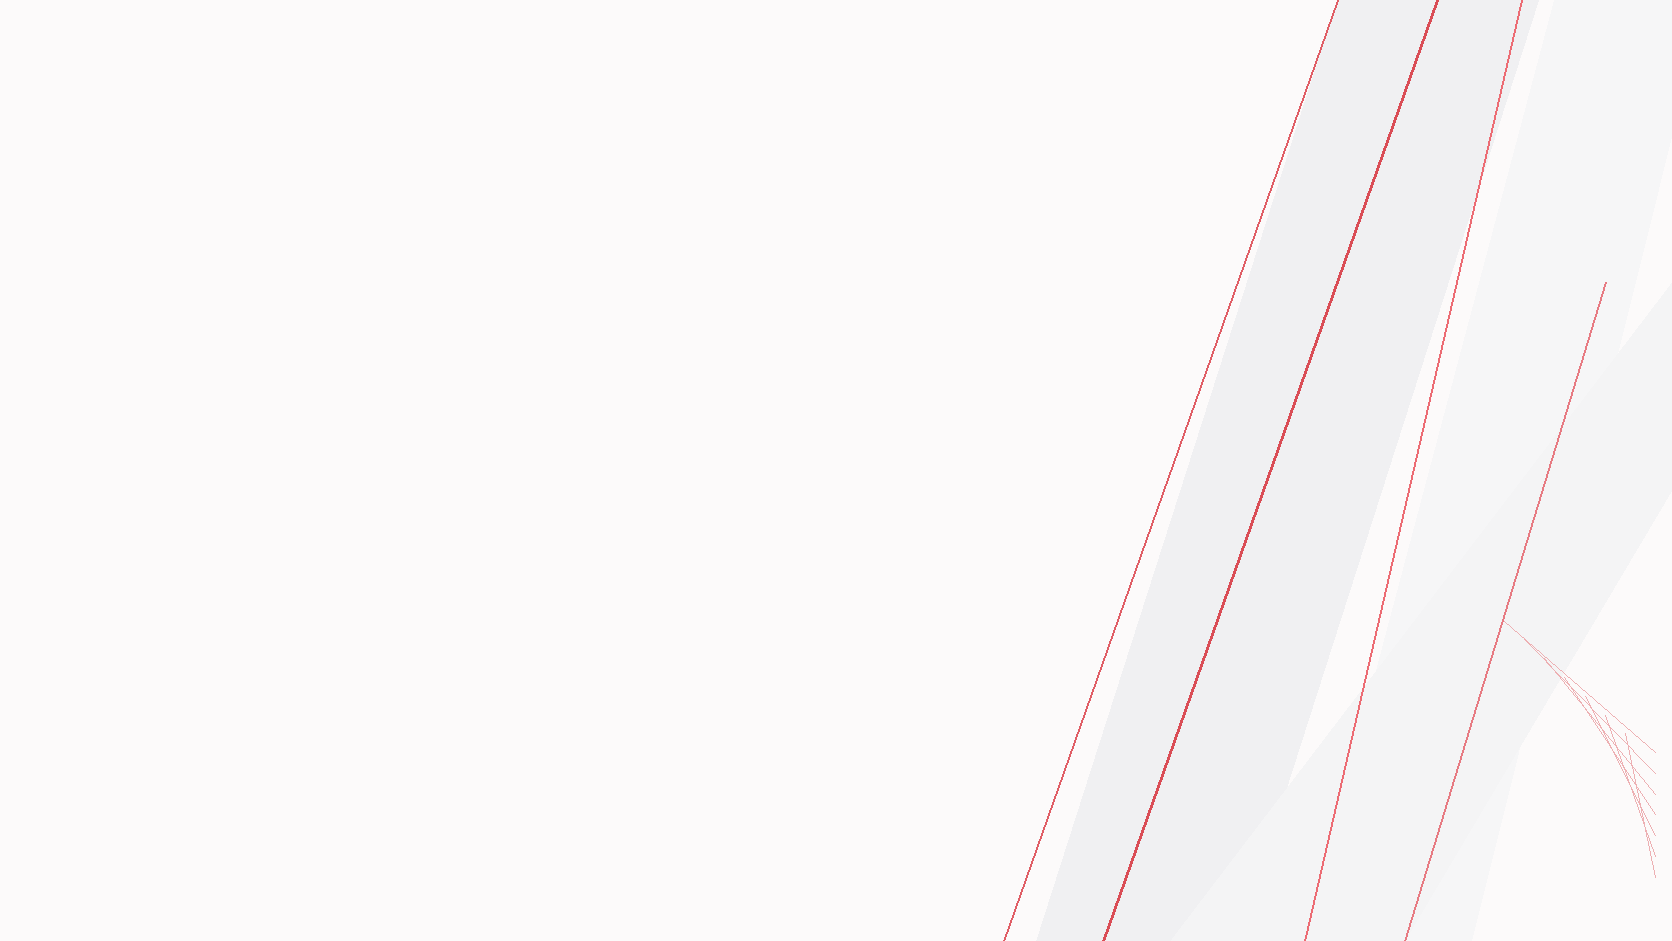
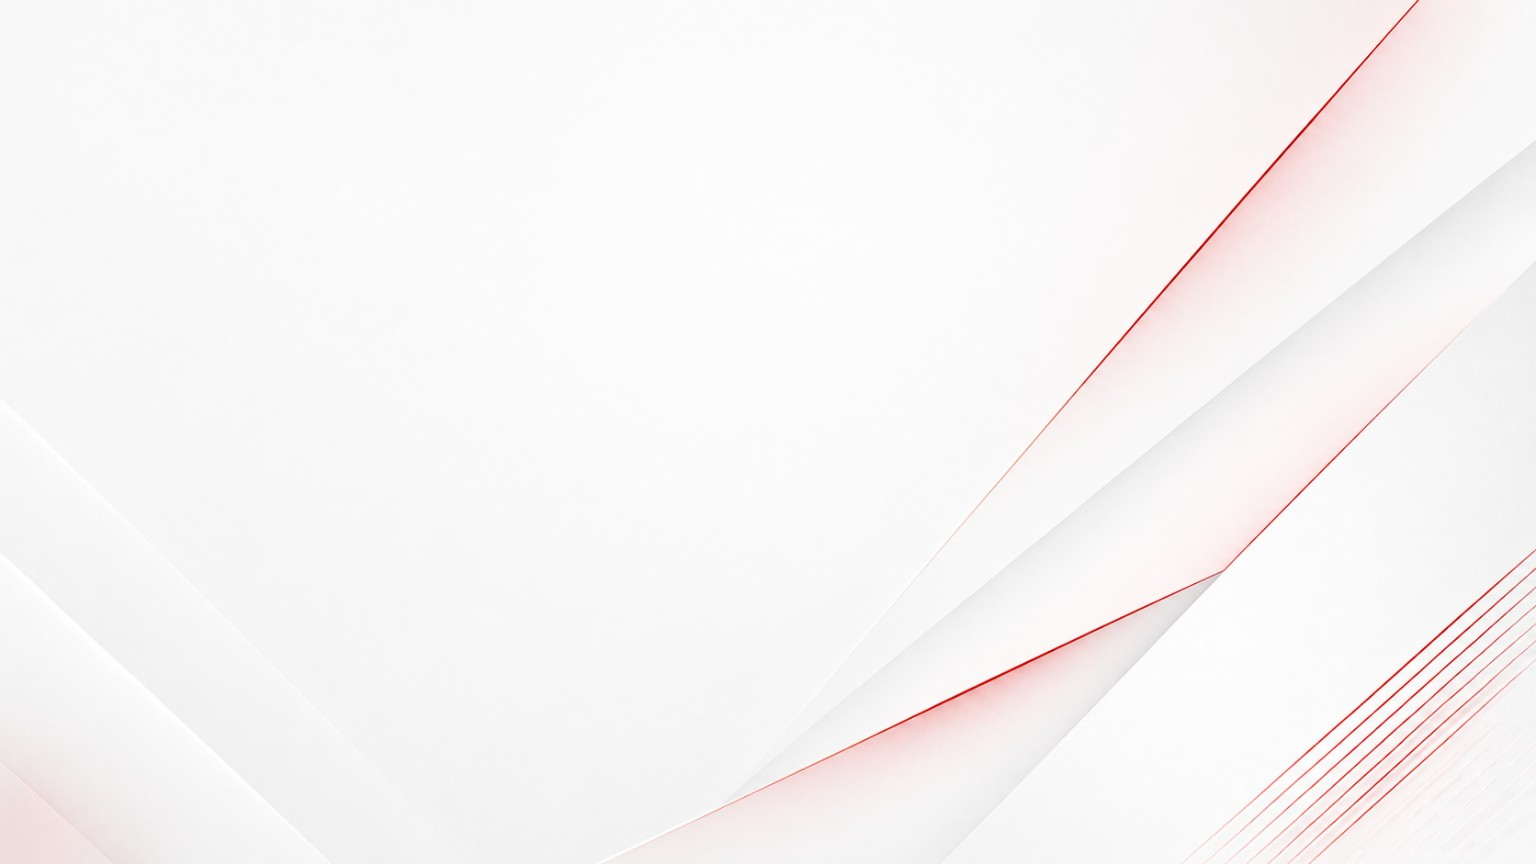
fix(apollo-pptx): 発明アイディア背景を正規画像に差替え＋タイトル/サブの重なり解消
- light_red_background.png を提供された正規背景に差し替え。
- add_invention_zone_slide のタイトル下サブメッセージを add_title_shape の戻り値(sub_y)
  基準で動的配置し、想定独立請求項案パネルも連動。タイトル(Yu Mincho)との重なりを解消。

https://claude.ai/code/session_01VUchd4fwU4ezbyD4d8joCn

diff --git a/capcom_schema/templates/slides_spec.md b/capcom_schema/templates/slides_spec.md
@@ -2900,17 +2900,22 @@ def add_invention_zone_slide(prs, zone, blank, page_num=None):
     s.background.fill.solid(); s.background.fill.fore_color.rgb = RGBColor(0xFF, 0xFF, 0xFF)
     if CV_BG_LIGHT_PATH and os.path.exists(CV_BG_LIGHT_PATH):
         s.shapes.add_picture(CV_BG_LIGHT_PATH, Inches(0), Inches(0), Inches(13.333), Inches(7.5))
-    add_title_shape(s, zone.get("headline", ""), label=str(zone.get("zoneName", "")).upper())
+    sub_y = add_title_shape(s, zone.get("headline", ""), label=str(zone.get("zoneName", "")).upper())
     if zone.get("subtitle"):
-        st = s.shapes.add_textbox(Inches(MARGIN_L), Inches(1.26), Inches(CONTENT_W), Inches(0.3))
+        st = s.shapes.add_textbox(Inches(MARGIN_L), Inches(sub_y + 0.02), Inches(CONTENT_W), Inches(0.32))
         set_text(st.text_frame.paragraphs[0], zone["subtitle"], Pt(12.5), MEDIUM_GRAY)
+        ctop = sub_y + 0.42
+    else:
+        ctop = sub_y + 0.12
+    ctop = max(ctop, 1.56)
+    cph = 3.72 - ctop
     # 想定独立請求項案（白パネル＋赤枠・主役）
-    cp = s.shapes.add_shape(MSO_SHAPE.RECTANGLE, Inches(0.9), Inches(1.62), Inches(11.73), Inches(2.02))
+    cp = s.shapes.add_shape(MSO_SHAPE.RECTANGLE, Inches(0.9), Inches(ctop), Inches(11.73), Inches(cph))
     cp.fill.solid(); cp.fill.fore_color.rgb = RGBColor(0xFF, 0xFF, 0xFF)
     cp.line.color.rgb = ACCENT; cp.line.width = Pt(1.4)
-    set_text(s.shapes.add_textbox(Inches(1.14), Inches(1.78), Inches(4.0), Inches(0.3)).text_frame.paragraphs[0],
+    set_text(s.shapes.add_textbox(Inches(1.14), Inches(ctop + 0.16), Inches(4.0), Inches(0.3)).text_frame.paragraphs[0],
              "想定独立請求項案", Pt(13), ACCENT, bold=True)
-    cb = s.shapes.add_textbox(Inches(1.14), Inches(2.12), Inches(11.25), Inches(1.42))
+    cb = s.shapes.add_textbox(Inches(1.14), Inches(ctop + 0.50), Inches(11.25), Inches(cph - 0.6))
     cbt = cb.text_frame; cbt.word_wrap = True; cbt.auto_size = MSO_AUTO_SIZE.NONE
     add_rich_runs(cbt.paragraphs[0], zone.get("claimDraft", ""), base_size=Pt(15.5), base_color=INK, bold_color=INK, line_spacing=1.32)
     # 発明のポイント（左）